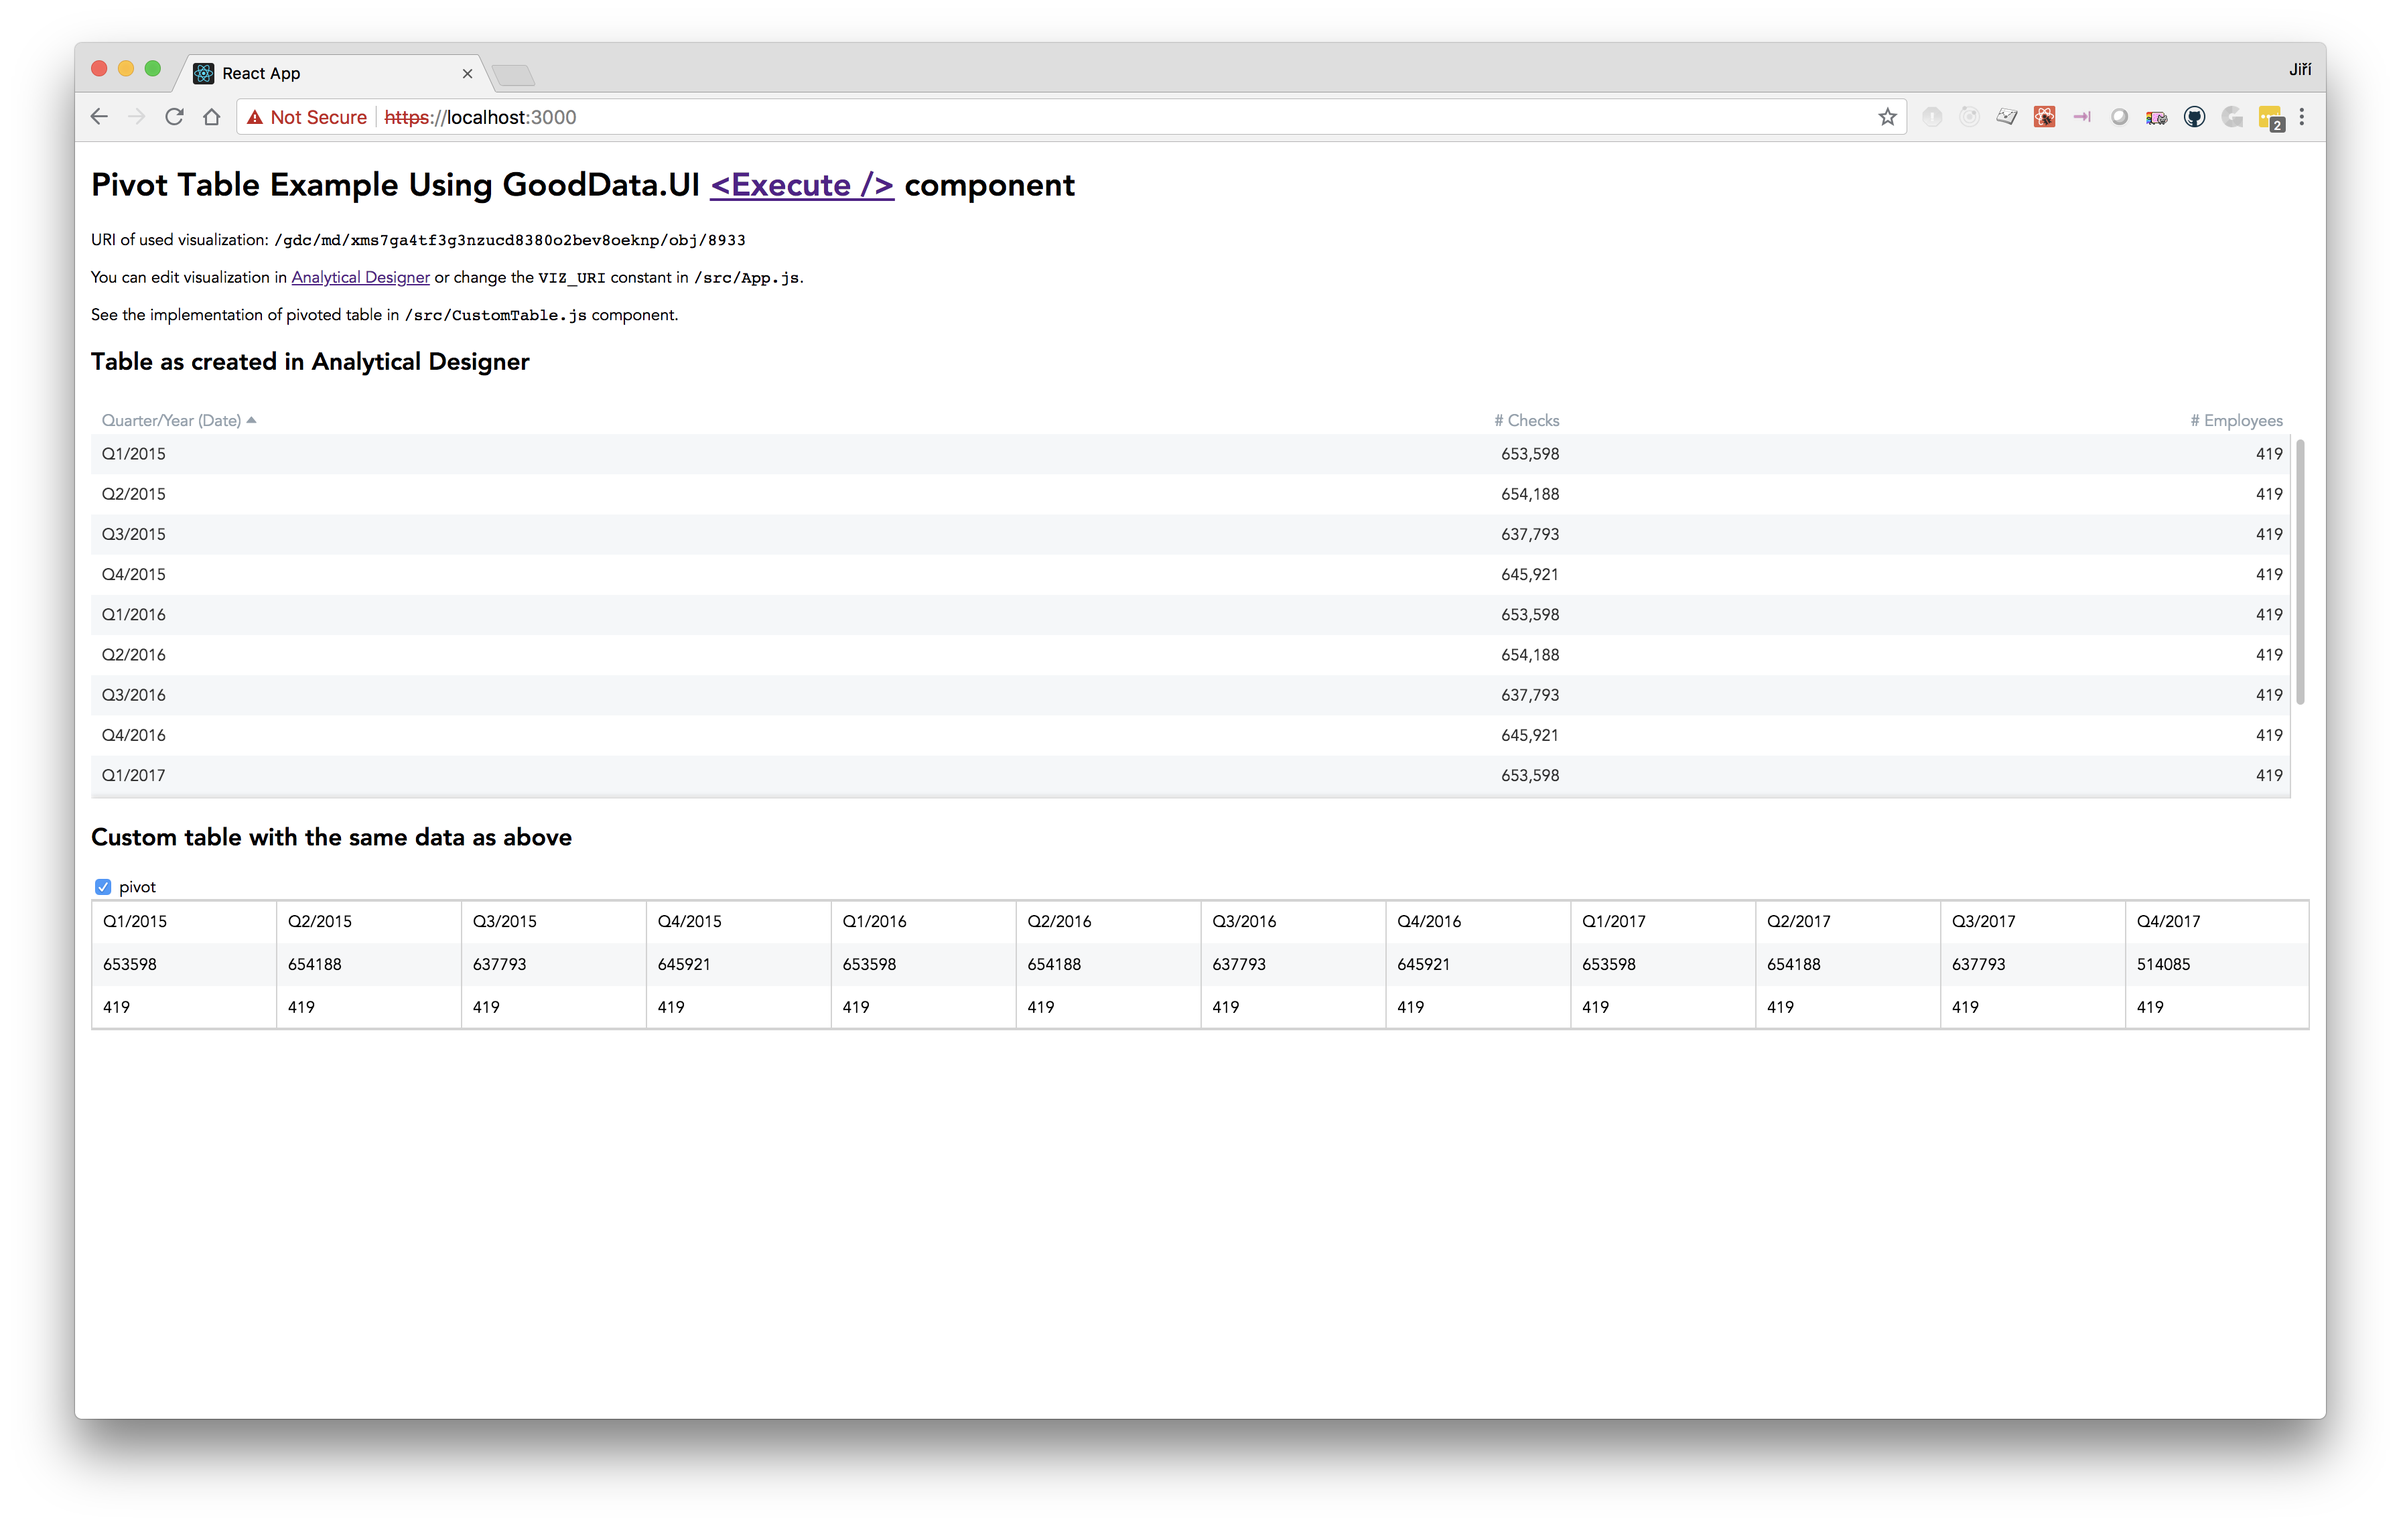
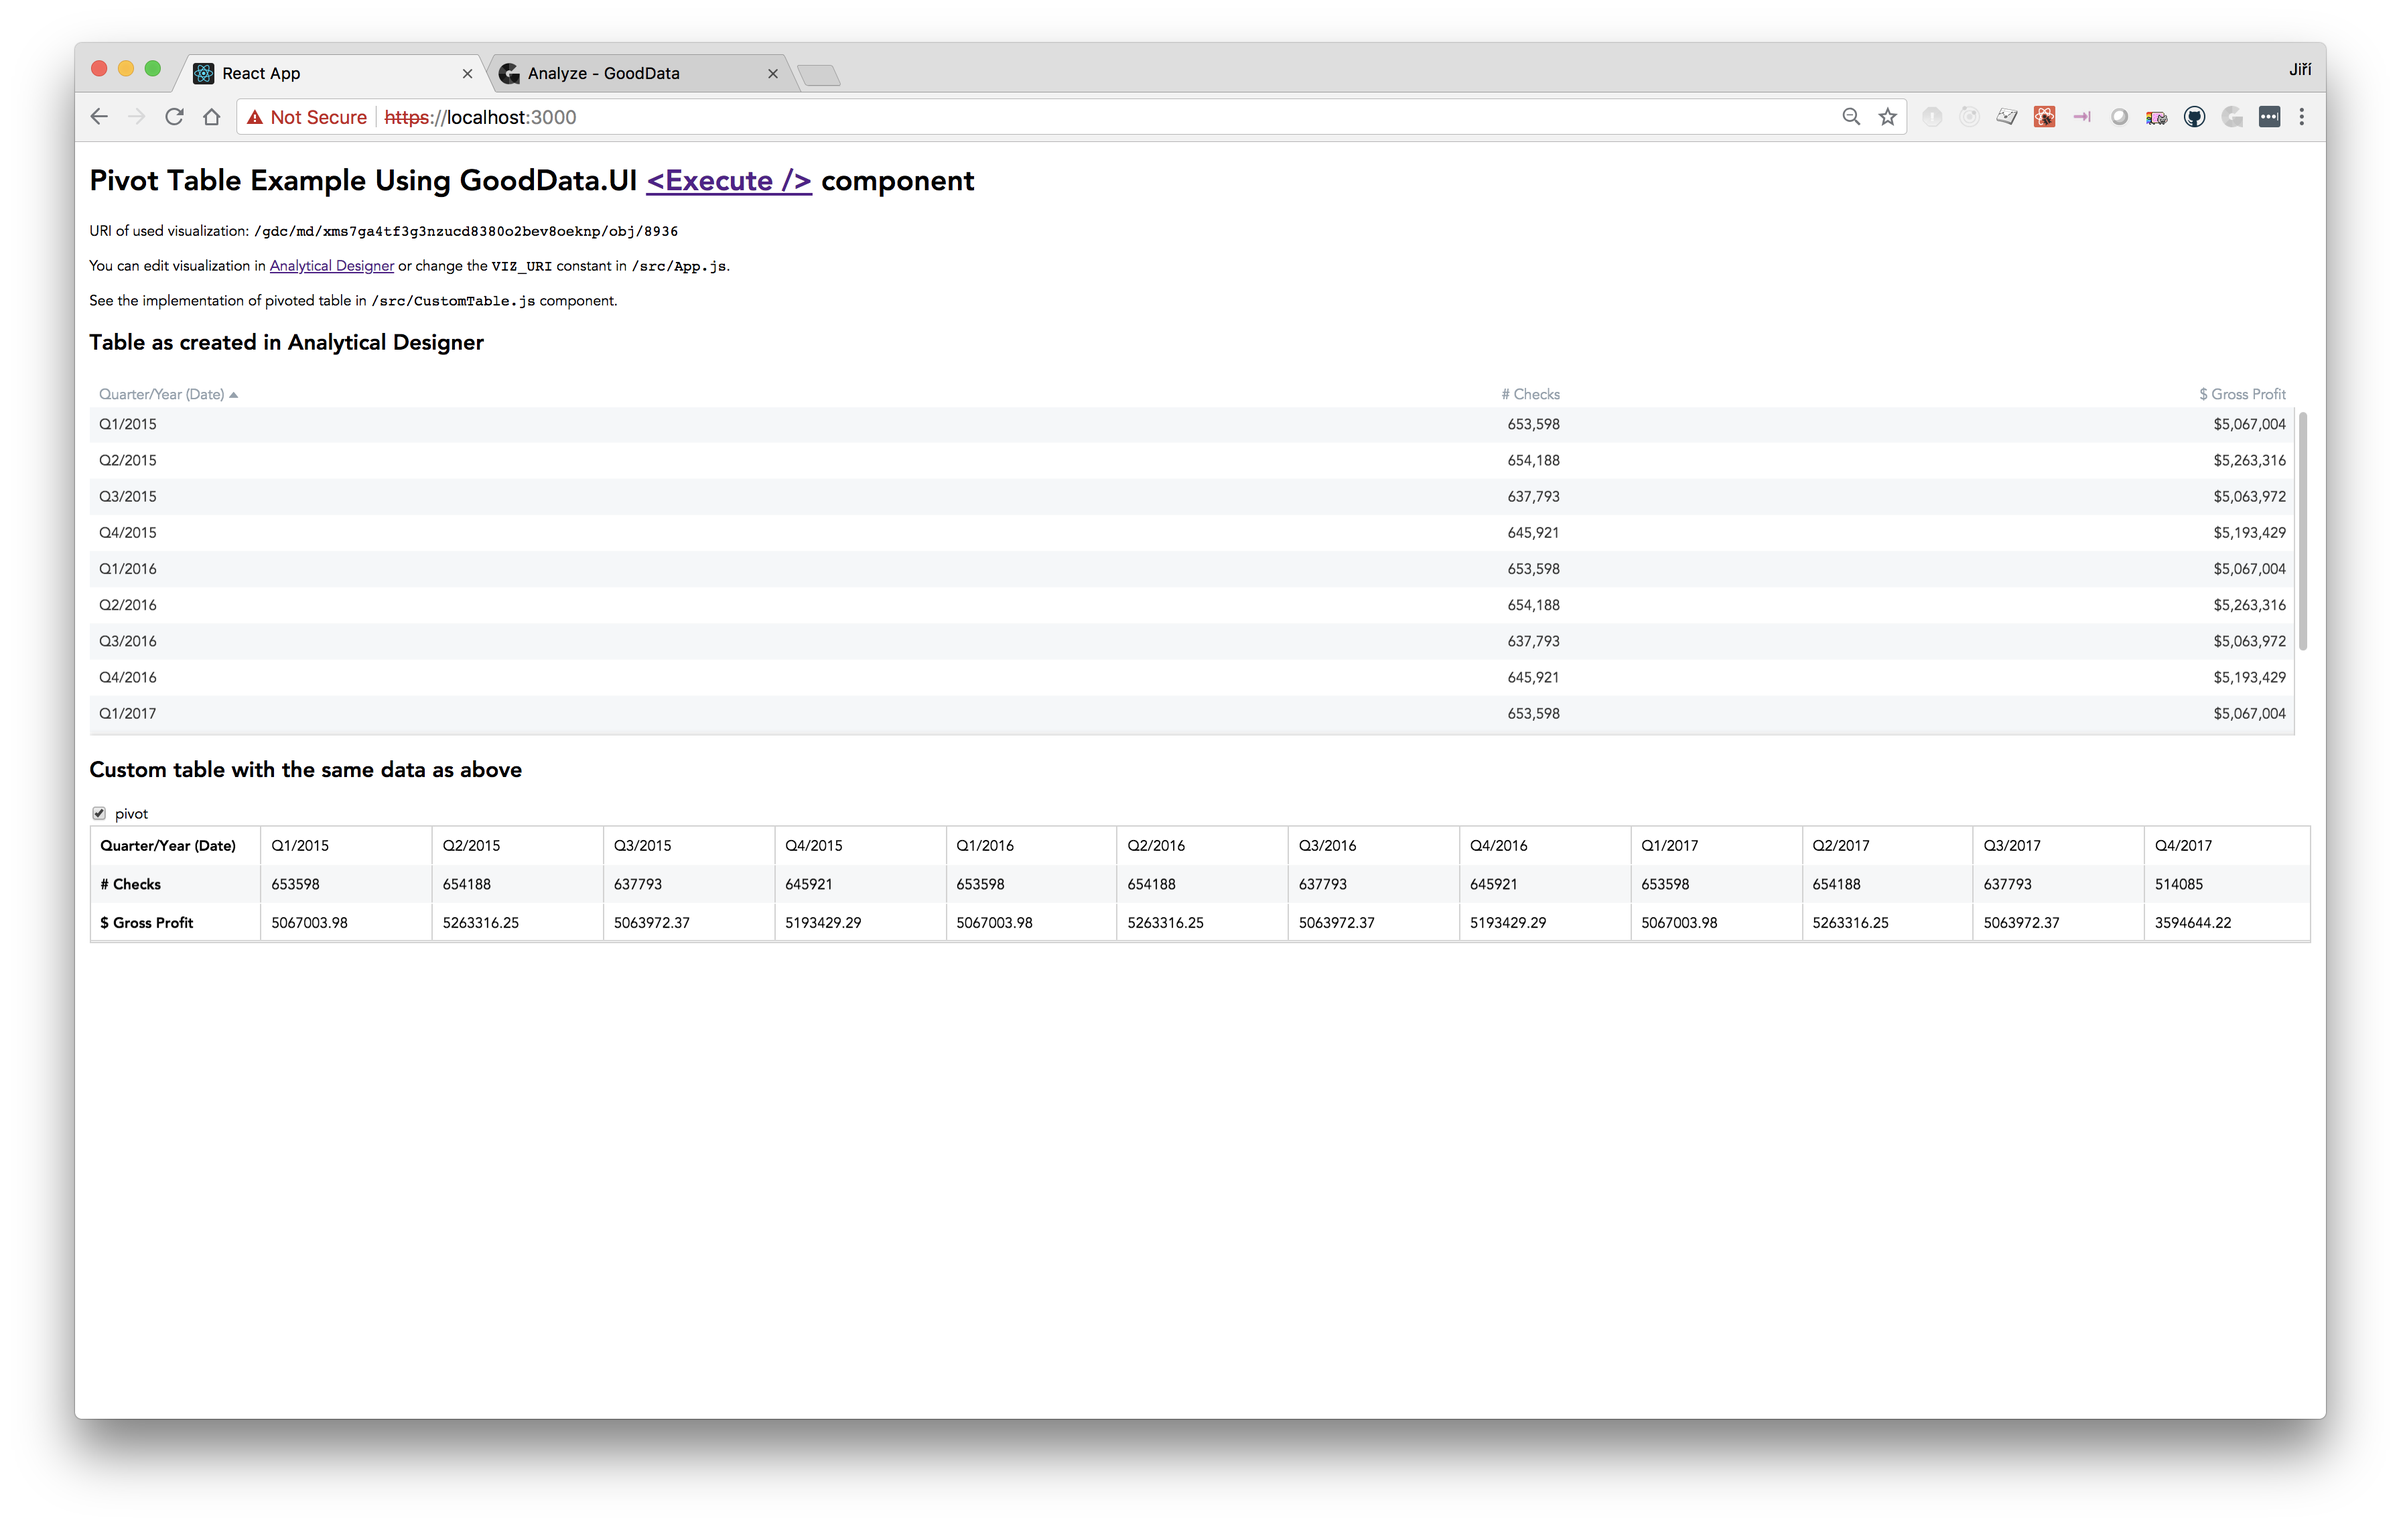
pivot-table now includes headers

diff --git a/pivot-table/src/CustomTable.js b/pivot-table/src/CustomTable.js
@@ -13,7 +13,10 @@ class CustomTable extends Component {
   constructor(props) {
     super(props);
 
-    this.state = {};
+    this.state = {
+      pivot: false,
+      afmResultSpec: null
+    };
 
     this.togglePivot = this.togglePivot.bind(this);
     this.renderNormal = this.renderNormal.bind(this);
@@ -41,7 +44,7 @@ class CustomTable extends Component {
       return <p>Loading data...</p>;
     }
 
-    const { executionResult: { data, headerItems } } = result;
+    const { executionResult: { data, headerItems }, executionResponse: { dimensions } } = result;
     const attributesCount = get(headerItems, 0).length;
     const metricsCount = get(headerItems, [1, 0]).length;
     const tableWidth = this.props.containerWidth;
@@ -51,16 +54,23 @@ class CustomTable extends Component {
 
     return (
       <Table
+        headerHeight={rowHeight}
         rowHeight={rowHeight}
         rowsCount={rowCount}
         width={tableWidth}
-        height={rowCount * rowHeight + 2}
+        height={(rowCount + 1) * rowHeight + 2}
       >
         {
           range(columnCount).map(index => {
             return (
               <Column
                 key={index}
+                header={
+                  <Cell>
+                    {index < attributesCount && get(dimensions, [0, 'headers', index, 'attributeHeader', 'formOf', 'name'])}
+                    {index >= attributesCount && get(dimensions, [1, 'headers', 0, 'measureGroupHeader', 'items', index - attributesCount, 'measureHeaderItem', 'name'])}
+                  </Cell>
+                }
                 columnKey={index}
                 cell={({ rowIndex, columnKey }) => {
                   return (
@@ -70,7 +80,11 @@ class CustomTable extends Component {
                     </Cell>
                   );
                 }}
-                width={tableWidth / columnCount}
+                width={
+                  index === columnCount - 1 ?
+                    tableWidth - (Math.round(tableWidth / columnCount) * (columnCount - 1)) :
+                    Math.round(tableWidth / columnCount)
+                }
               />
             );
           })
@@ -84,12 +98,12 @@ class CustomTable extends Component {
       return <p>Loading data...</p>;
     }
 
-    const { executionResult: { data, headerItems } } = result;
+    const { executionResult: { data, headerItems }, executionResponse: { dimensions } } = result;
     const attributesCount = get(headerItems, 0).length;
     const metricsCount = get(headerItems, [1, 0]).length;
     const tableWidth = this.props.containerWidth;
     const rowHeight = 32;
-    const columnCount = data.length;
+    const columnCount = data.length + 1;
     const rowCount = attributesCount + metricsCount;
 
     return (
@@ -106,11 +120,17 @@ class CustomTable extends Component {
                 key={index}
                 cell={({ rowIndex }) => (
                   <Cell>
-                    {rowIndex < attributesCount && get(headerItems, [0, rowIndex, index, 'attributeHeaderItem', 'name'])}
-                    {rowIndex >= attributesCount && get(data, [index, rowIndex - attributesCount])}
+                    <b>{index === 0 && rowIndex < attributesCount && get(dimensions, [0, 'headers', index, 'attributeHeader', 'formOf', 'name'])}</b>
+                    <b>{index === 0 && rowIndex >= attributesCount && get(dimensions, [1, 'headers', 0, 'measureGroupHeader', 'items', rowIndex - attributesCount, 'measureHeaderItem', 'name'])}</b>
+                    {index > 0 && rowIndex < attributesCount && get(headerItems, [0, rowIndex, index - 1, 'attributeHeaderItem', 'name'])}
+                    {index > 0 && rowIndex >= attributesCount && get(data, [index - 1, rowIndex - attributesCount])}
                   </Cell>
                 )}
-                width={tableWidth / columnCount}
+                width={
+                  index === columnCount - 1 ?
+                    tableWidth - (Math.round(tableWidth / columnCount) * (columnCount - 1)) :
+                    Math.round(tableWidth / columnCount)
+                }
               />
             );
           })
@@ -131,7 +151,7 @@ class CustomTable extends Component {
 
     return (
       <div>
-        <label><input type="checkbox" onChange={this.togglePivot} /> pivot</label>
+        <label><input type="checkbox" onChange={this.togglePivot} checked={pivot} /> pivot</label>
         <Execute
           projectId={projectId}
           afm={afmResultSpec.afm}

diff --git a/pivot-table/src/App.js b/pivot-table/src/App.js
@@ -7,7 +7,7 @@ import '@gooddata/react-components/styles/css/main.css';
 import './App.css';
 
 const PROJECT_ID = 'xms7ga4tf3g3nzucd8380o2bev8oeknp';
-const VIZ_URI = '/gdc/md/xms7ga4tf3g3nzucd8380o2bev8oeknp/obj/8933';
+const VIZ_URI = '/gdc/md/xms7ga4tf3g3nzucd8380o2bev8oeknp/obj/8936';
 
 const App = () => (
   <div className="App">
